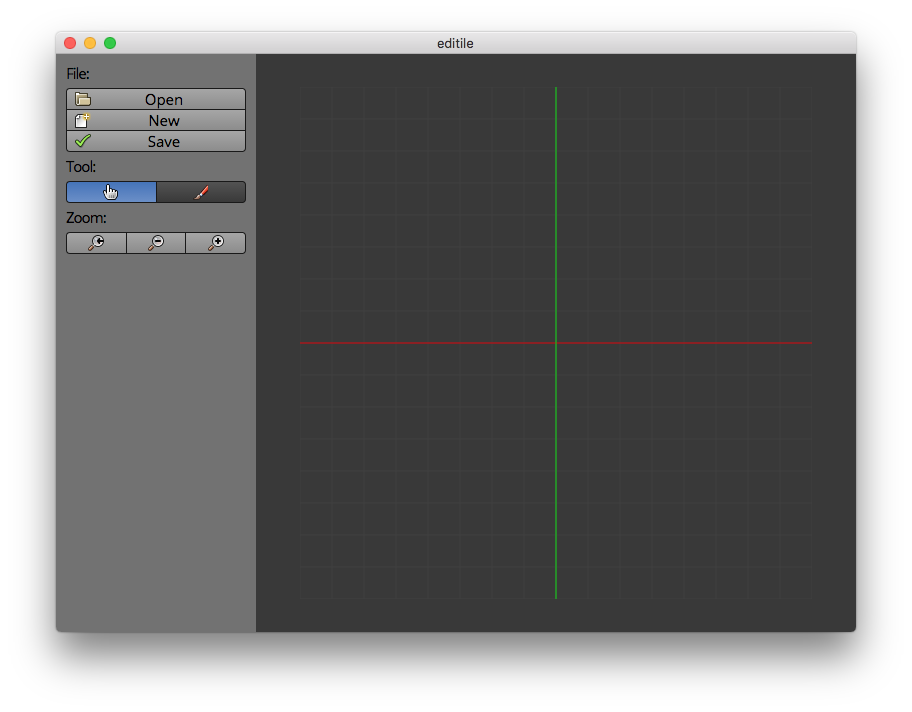
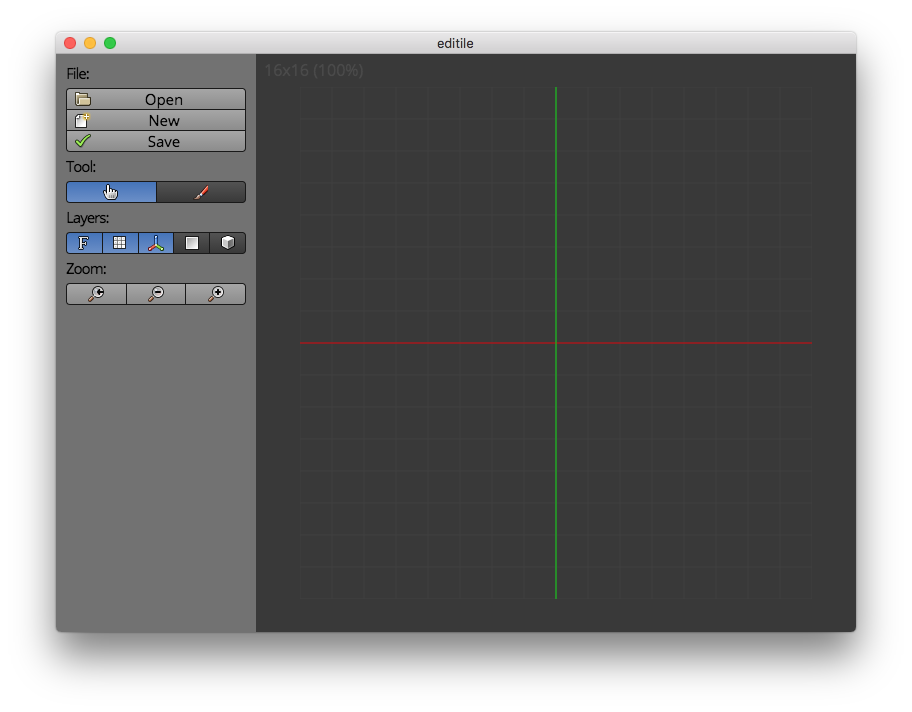
updated screenshots

Changed region(s): [[0.0614, 0.2781, 0.2763, 0.4326], [0.1535, 0.1236, 0.1842, 0.1854]]

diff --git a/assets/libs/editile/editor.js b/assets/libs/editile/editor.js
@@ -297,7 +297,7 @@ Editor.prototype.resetZoom = function () {
 }
 
 Editor.prototype.zoomOut = function () {
-  this._scale = Math.max(this._scale - .125, .5)
+  this._scale = Math.max(this._scale - .25, .5)
   this.invalidate()
 }
 
@@ -361,6 +361,14 @@ Editor.prototype.setWorld = function (newValue) {
   this._world = newValue
   this.updateLayers()
   this.invalidate()
+}
+
+Editor.prototype.getScale = function () {
+  return this._scale
+}
+
+Editor.prototype.getScalePercent = function () {
+  return Math.round(100.0 * this._scale)
 }
 
 util.inherits(Editor, EventEmitter)

diff --git a/assets/libs/editile/layers/stats.js b/assets/libs/editile/layers/stats.js
@@ -23,7 +23,18 @@ Stats.prototype.render = function (ctx, rect, editor) {
   ctx.font = '16px Open Sans'
   ctx.fillStyle = '#4a4a4a'
 
-  let str = world.getWidth() + 'x' + world.getHeight()
+  let str = ''
+
+  /* World dimensions */
+  str += world.getWidth()
+  str += 'x'
+  str += world.getHeight()
+
+  /* Zoom level */
+  str += ' ('
+  str += editor.getScalePercent()
+  str += '%)'
+
   ctx.fillText(str, 8, 22)
 }
 

diff --git a/assets/libs/editile/tools/brush.js b/assets/libs/editile/tools/brush.js
@@ -56,10 +56,10 @@ Brush.prototype.mouseMove = function (evt, editor) {
 }
 
 Brush.prototype.render = function (ctx) {
-  ctx.strokeStyle = 'rgba(255, 255, 255, .5)'
+  ctx.strokeStyle = 'rgba(255, 255, 255, .1)'
   ctx.lineJoin = 'round'
   ctx.lineCap = 'round'
-  ctx.lineWidth = 5
+  ctx.lineWidth = 8
 
   ctx.beginPath()
 
